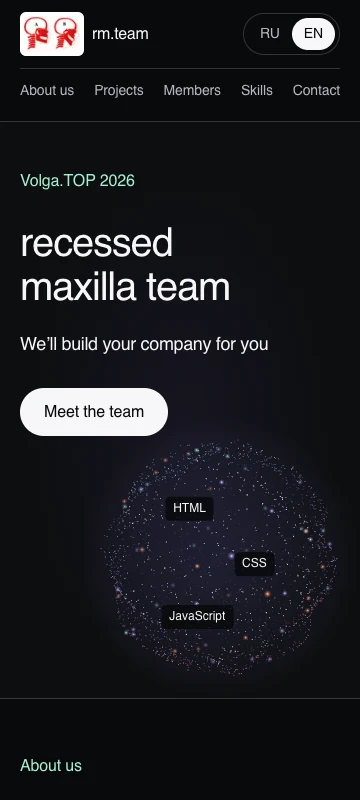
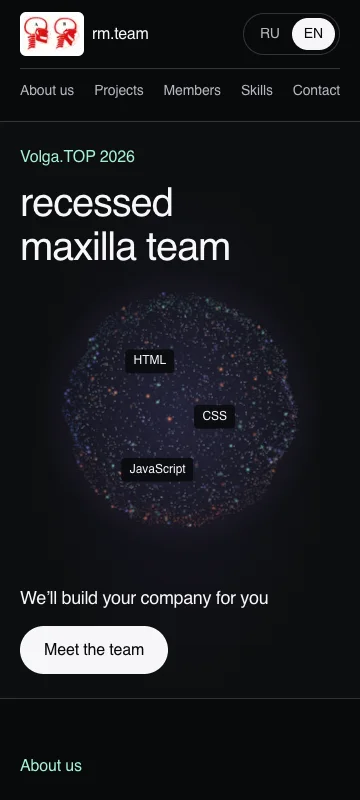
fix(frontend): center the star sphere in the hero

diff --git a/frontend/app/[lang]/page.tsx b/frontend/app/[lang]/page.tsx
@@ -103,17 +103,17 @@ export default async function Home({ params }: PageProps<"/[lang]">) {
           className="hero relative isolate overflow-hidden border-b border-line"
         >
           <ParticleSphere labels={getSphereLabels()} />
-          <div className="shell pointer-events-none relative flex min-h-[36rem] flex-col items-start pt-12 pb-44 sm:min-h-[40rem] md:justify-center md:py-24 [&>*]:pointer-events-auto lg:min-h-[clamp(38rem,74svh,54rem)]">
-            <p className="section-label mb-7 text-mint">
+          <div className="shell pointer-events-none relative flex min-h-[36rem] flex-col items-start py-6 sm:min-h-[40rem] lg:justify-center lg:py-24 [&>*]:pointer-events-auto lg:min-h-[clamp(38rem,74svh,54rem)]">
+            <p className="section-label mb-3 text-mint lg:mb-7">
               {team.event[lang]} {team.year}
             </p>
-            <h1 id="hero-title" lang="en" className="hero-title">
+            <h1 id="hero-title" lang="en" className="hero-title md:max-lg:max-w-none">
               {teamName}
             </h1>
-            <p className="lead mt-6 max-w-[30ch] font-medium text-paper">
+            <p className="lead mt-auto max-w-[30ch] font-medium text-paper lg:mt-6">
               {team.motto[lang]}
             </p>
-            <a href="#members" className="pill mt-8">
+            <a href="#members" className="pill mt-4 lg:mt-8">
               {t.meet}
             </a>
           </div>

diff --git a/frontend/app/globals.css b/frontend/app/globals.css
@@ -89,7 +89,7 @@
       #0d0e10;
   }
   .particle-sphere {
-    @apply absolute right-0 bottom-0 aspect-square w-[min(78vw,19rem)] touch-pan-y select-none motion-reduce:pointer-events-none md:top-1/2 md:right-[2%] md:bottom-auto md:w-[min(57%,85svh,54rem)] md:-translate-y-1/2;
+    @apply absolute top-1/2 left-1/2 aspect-square -translate-1/2 w-[min(78vw,19rem)] touch-pan-y select-none motion-reduce:pointer-events-none md:w-[min(57%,85svh,54rem)] md:max-lg:max-w-md;
     background: radial-gradient(closest-side, #7176cf24, #7566b00d 85%, transparent);
   }
   .particle-sphere[data-ready] {

diff --git a/docs/components.md b/docs/components.md
@@ -3,7 +3,7 @@
 | Компонент | Содержимое и состояния |
 | --- | --- |
 | Шапка | Эмблема со ссылкой на текущую языковую версию, меню, RU и EN. Активная ссылка имеет доступное состояние и контрастную заливку. |
-| Первый экран | Событие, название команды, девиз, ссылка к участникам. Справа вращается сфера. Перетаскивание поворачивает её, движение указателя раздвигает частицы, а прокрутка расширяет оболочку. На её поверхности по очереди появляются до трёх подписей из [навыков команды](../frontend/data/team.ts). |
+| Первый экран | Событие, название команды, девиз, ссылка к участникам. В центре секции вращается сфера. Перетаскивание поворачивает её, движение указателя раздвигает частицы, а прокрутка расширяет оболочку. На её поверхности по очереди появляются до трёх подписей из [навыков команды](../frontend/data/team.ts). |
 | Карточка участника | Имя, роли, достижения, учебная группа, фото или инициалы. Роли и теги навыков указаны на английском. Теги выровнены по нижнему краю карточки с внутренним отступом. |
 | Строка навыков | Название категории и список элементов, допускающий перенос. |
 | Карточка проекта | Тип, название, краткое описание и отдельная ссылка на репозиторий при наличии. Карточки с подробным рассказом содержат кнопку «Подробнее / Read more». Она раскрывает описание реализованных технических решений. Снимки интерфейса расположены рядом с разделами, которые они иллюстрируют. Повторное нажатие сворачивает карточку. |

diff --git a/docs/design.md b/docs/design.md
@@ -23,7 +23,7 @@
 | Область | Правило |
 | --- | --- |
 | Шапка | Логотип команды и сокращённое имя слева, якоря в центре, языки справа. На узком экране меню образует отдельную строку и может переноситься. |
-| Первый экран | Событие, название, девиз и кнопка образуют одну колонку слева. Сфера занимает правую часть экрана, на телефоне она смещается к нижнему правому краю. Весь текст остаётся в HTML. |
+| Первый экран | Сфера располагается по центру секции по обеим осям. На компьютере текст и кнопка образуют колонку слева. На телефоне и планшете событие и название находятся сверху, девиз и кнопка — снизу. Весь текст остаётся в HTML. |
 | О команде | В узкой колонке расположен заголовок, в широкой — два абзаца о работе команды и знакомстве в университете. |
 | Проекты | Все карточки показывают тип работы, название и короткое описание. Белая овальная кнопка раскрытия появляется у работ с подробным рассказом. В раскрытой карточке каждый снимок интерфейса расположен рядом с соответствующим текстом на широком экране и над ним на телефоне. Ссылка на репозиторий доступна в обоих состояниях. |
 | Участники | Карточка содержит имя, аватар, группу, роли на английском, список достижений и навыки. При ширине от 768 px в ряду две карточки, от 1280 px — четыре. |

diff --git a/docs/decisions/0038-centered-sphere.md b/docs/decisions/0038-centered-sphere.md
@@ -1,0 +1,7 @@
+# 0038. Сфера по центру первого экрана
+
+Дата принятия — 2026-11-26.
+
+Центр холста и статичного изображения совмещён с центром секции по обеим осям при любой ширине окна. На экранах уже 1024 CSS-пикселей название команды размещается выше центра, а девиз и кнопка перехода к участникам — ниже. Так середина сферы доступна для перетаскивания.
+
+Решение обновляет расположение сферы из [записи 0013](0013-hero-layout-and-motion.md).

diff --git a/docs/decisions/README.md b/docs/decisions/README.md
@@ -40,5 +40,6 @@
 | [0034. Проект Артемия в портфолио](0034-sellevate.md) | 2026-11-26 |
 | [0035. Логотип на вкладке браузера](0035-site-icon.md) | 2026-11-26 |
 | [0036. Плотность звёзд и скорость вращения сферы](0036-star-sphere.md) | 2026-11-26 |
+| [0038. Сфера по центру первого экрана](0038-centered-sphere.md) | 2026-11-26 |
 
 Скопируй [шаблон записи](template.md) в файл `NNNN-краткое-название.md` и добавь его в таблицу.
